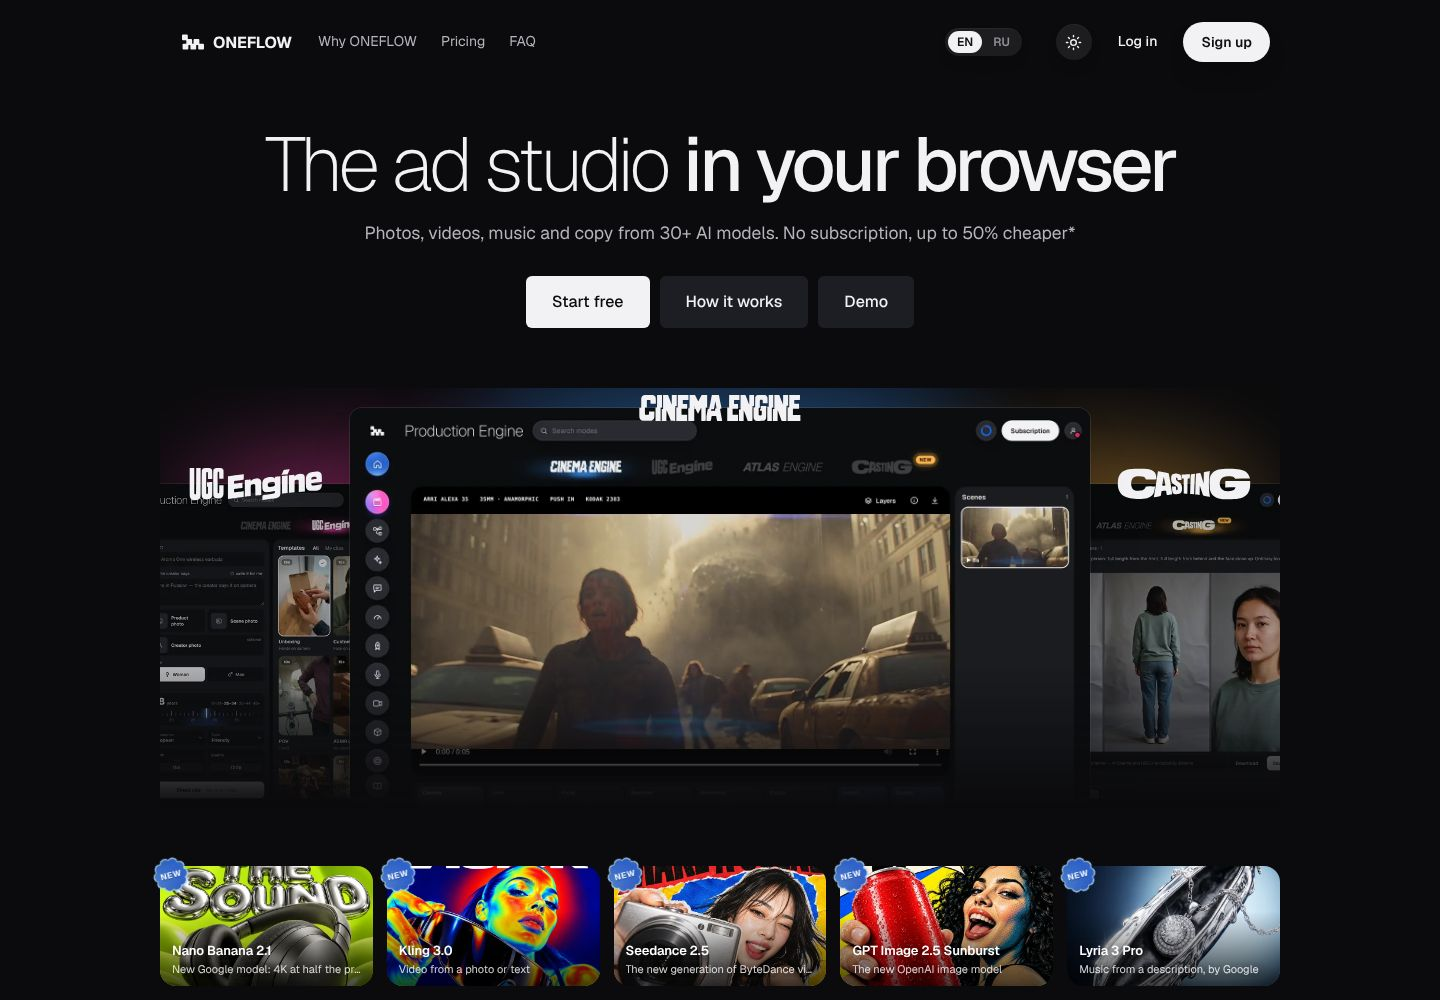
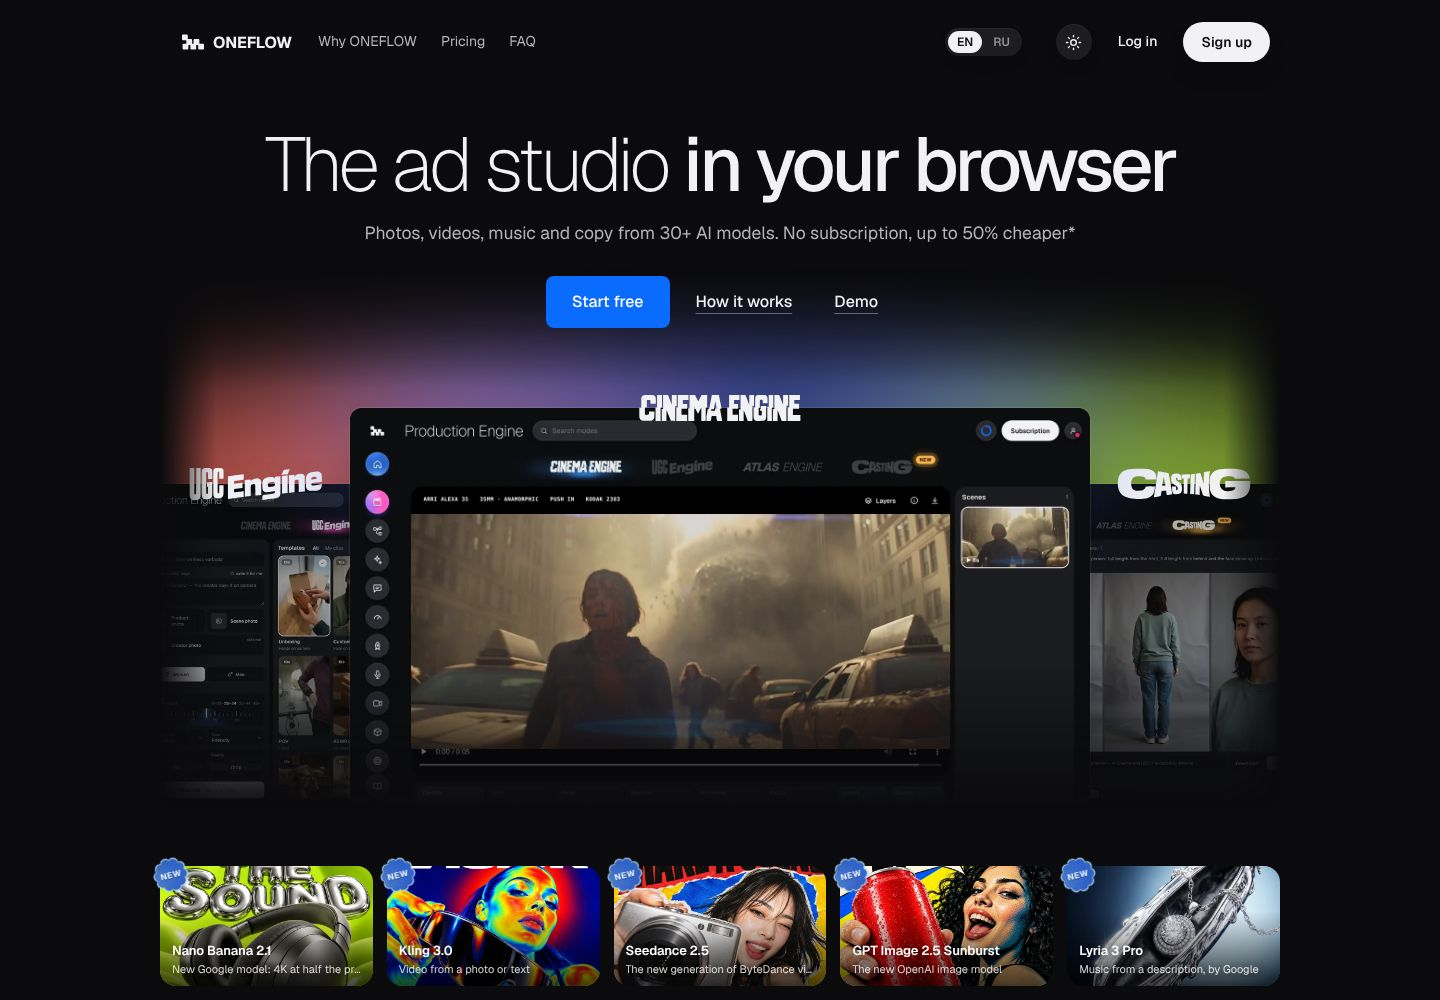
Hero draft: button style C, a soft drifting glow behind the windows
Claude-Session: https://claude.ai/code/session_018a2KjtpEKLUTJU5P3jAt1D

diff --git a/landing/hero_draft/hero.css b/landing/hero_draft/hero.css
@@ -46,10 +46,27 @@ html[lang] .hero.hq35 h1 { font-size: clamp(40px, 5.3vw, 76px); line-height: 1.0
 .hero.hq35 .hq-desk { height: 420px; margin-top: 60px; }
 .hero.hq35 .w-l .hq-logo { left: 30%; }
 .hero.hq35 .w-r .hq-logo { left: 70%; }
-/* three plain buttons (the owner, 2026-11-20): «Демо» beside the two, small corner radii, no arrow, no glow */
-html[lang] .hero.hq35 .acts { gap: 10px; margin-top: 30px; }
-html[lang] .hero.hq35 .acts .btn { height: 52px; padding: 0 26px; border-radius: 6px; font: 500 16px/1 var(--d); letter-spacing: 0; box-shadow: none; transform: none; transition: background .15s; }
-html[lang] .hero.hq35 .acts .btn.p { background: #f2f2f4; color: #0c0c10; }
-html[lang] .hero.hq35 .acts .btn.p:hover { background: #fff; }
-html[lang] .hero.hq35 .acts .btn.g { background: #1d1e23; color: #f2f2f4; backdrop-filter: none; -webkit-backdrop-filter: none; }
-html[lang] .hero.hq35 .acts .btn.g:hover { background: #282a31; }
+/* buttons, style C (the owner, 2026-11-20): one blue main button, the other two as underlined words */
+html[lang] .hero.hq35 .acts { position: relative; z-index: 3; gap: 10px; margin-top: 30px; }
+html[lang] .hero.hq35 .acts .btn { height: 52px; padding: 0 26px; border-radius: 8px; font: 500 16px/1 var(--d); letter-spacing: 0; box-shadow: none; transform: none; transition: background .15s, text-decoration-color .15s; }
+html[lang] .hero.hq35 .acts .btn.p { background: #0a6cff; color: #fff; }
+html[lang] .hero.hq35 .acts .btn.p:hover { background: #2a80ff; }
+html[lang] .hero.hq35 .acts .btn.g { background: transparent; color: #f2f2f4; padding: 0 16px; backdrop-filter: none; -webkit-backdrop-filter: none; text-decoration: underline; text-underline-offset: 6px; text-decoration-thickness: 1px; text-decoration-color: rgba(255,255,255,.35); }
+html[lang] .hero.hq35 .acts .btn.g:hover { text-decoration-color: #fff; }
+/* the light behind the windows (the owner, 2026-11-20): never cut by an edge — the block reaches up behind the
+   buttons and fades out on every side — and it drifts and changes its tint slowly */
+html[lang] .hero.hq35 .hq-desk { height: 540px; margin-top: -60px; pointer-events: none;
+  -webkit-mask-image: linear-gradient(180deg, transparent 0, #000 120px, #000 73%, transparent 100%), linear-gradient(90deg, transparent 0, #000 5%, #000 95%, transparent 100%);
+  mask-image: linear-gradient(180deg, transparent 0, #000 120px, #000 73%, transparent 100%), linear-gradient(90deg, transparent 0, #000 5%, #000 95%, transparent 100%);
+  -webkit-mask-composite: source-in; mask-composite: intersect; }
+html[lang] .hero.hq35 .w-c { top: 140px; }
+html[lang] .hero.hq35 .w-l, html[lang] .hero.hq35 .w-r { top: 216px; }
+html[lang] .hero.hq35 .hq-w .hq-blob { left: -4%; right: -4%; top: -96px; height: 210px; background: hsl(var(--h) 100% 62% / .5); filter: blur(64px); animation: hq-drift 11s ease-in-out infinite alternate; will-change: transform, opacity; }
+html[lang] .hero.hq35 .hq-w .hq-blob::after { content: ""; position: absolute; inset: 0; border-radius: 50%; background: hsl(calc(var(--h) + 56) 100% 64% / .6); opacity: 0; animation: hq-tint 7s ease-in-out infinite alternate; }
+html[lang] .hero.hq35 .w-l .hq-blob { animation-delay: -4s; animation-duration: 13s; }
+html[lang] .hero.hq35 .w-l .hq-blob::after { animation-delay: -2.5s; }
+html[lang] .hero.hq35 .w-r .hq-blob { animation-delay: -8s; animation-duration: 15s; }
+html[lang] .hero.hq35 .w-r .hq-blob::after { animation-delay: -5s; }
+@keyframes hq-drift { 0% { transform: translate(-9%, 6px) scale(.9, .92); opacity: .7; } 50% { transform: translate(5%, -10px) scale(1.08, 1.12); opacity: 1; } 100% { transform: translate(10%, 4px) scale(.96, 1); opacity: .8; } }
+@keyframes hq-tint { 0% { opacity: 0; } 100% { opacity: 1; } }
+@media (prefers-reduced-motion: reduce) { html[lang] .hero.hq35 .hq-w .hq-blob, html[lang] .hero.hq35 .hq-w .hq-blob::after { animation: none; } }

diff --git a/landing/hero_draft/README.md b/landing/hero_draft/README.md
@@ -19,8 +19,11 @@
 (возвращён владельцем 20.11.2026). Картинки окон и логотипы
 берутся из `/pe/` (они уже лежат на сайте для блока режимов).
 
-Кнопок три (20.11.2026): «Начать бесплатно», «Как это работает» и справа «Демо» (`/app?demo=1`) — прямоугольные,
-с радиусом 6 px, без стрелки, теней и свечения.
+Кнопок три (20.11.2026, стиль C из `button-styles.png`): синяя «Начать бесплатно» и две подчёркнутые
+текстовые — «Как это работает» и справа «Демо» (`/app?demo=1`).
+
+Свечение за окнами (20.11.2026) нигде не обрезается: блок окон заходит вверх под кнопки и гаснет по всем
+краям; пятна медленно плывут и меняют оттенок (при «уменьшить движение» стоят на месте).
 
 ## Не решено
 
